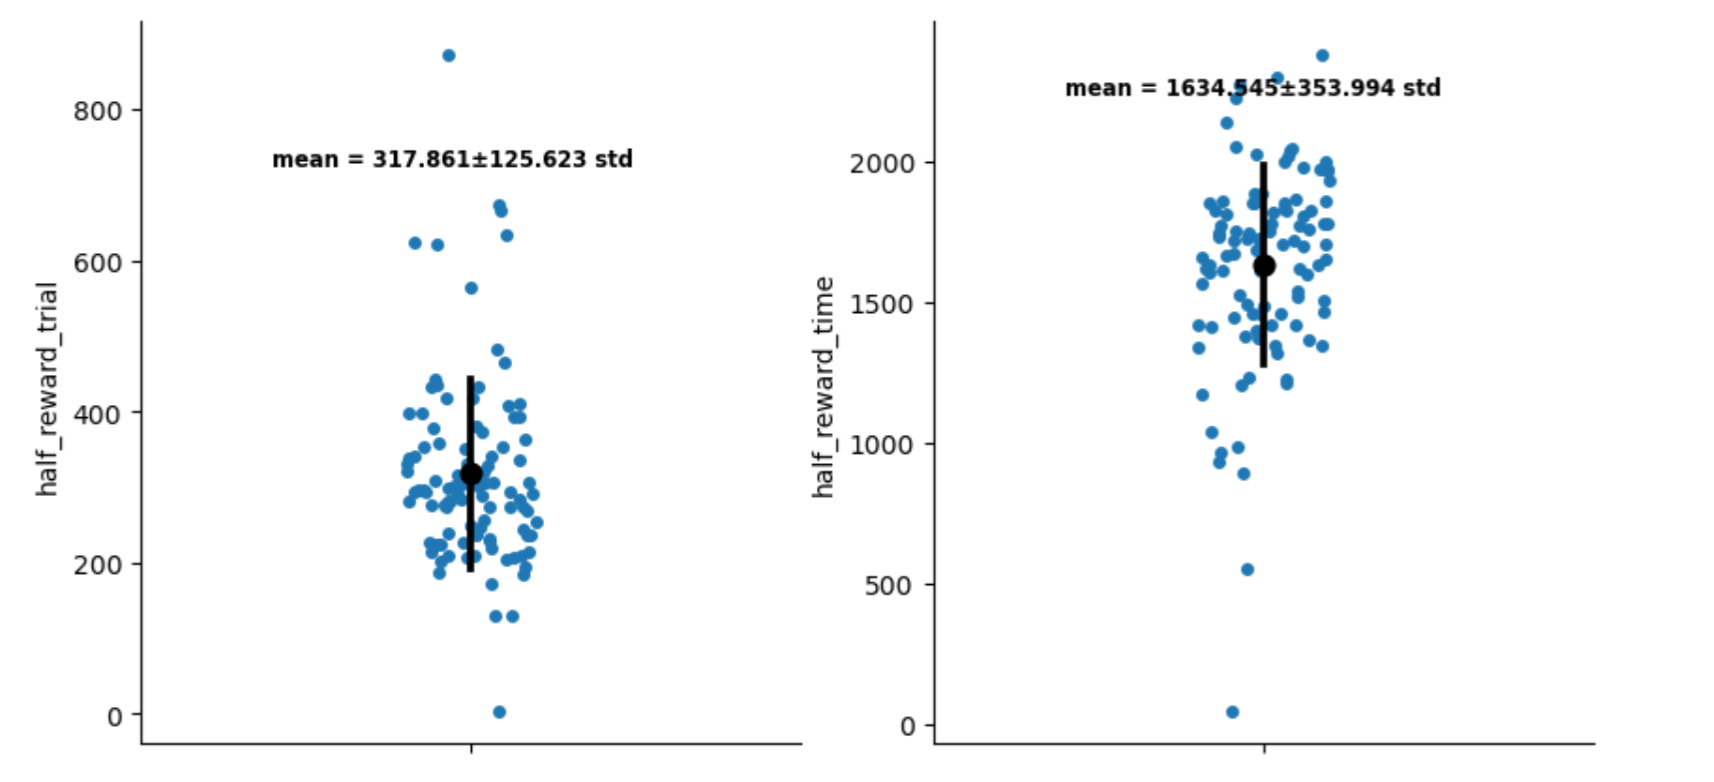
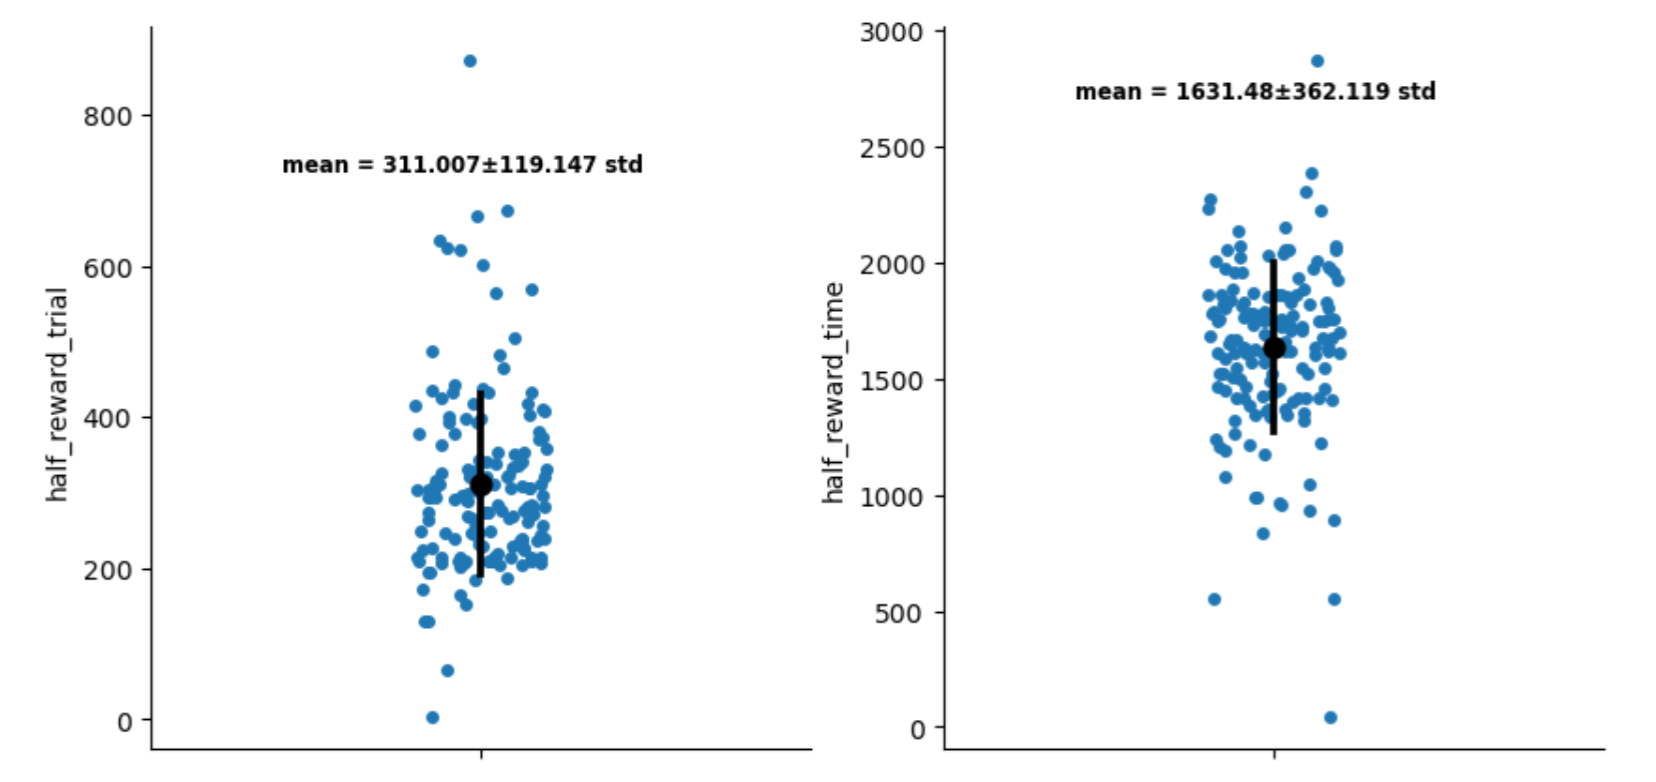
update image in option 2 to include all sessions 101->153

diff --git a/Task_parameters.md b/Task_parameters.md
@@ -37,7 +37,8 @@ or on recording days only:![hit_trial](images/Hit_trial_2.png)
 
 We can hardcode the duration of the blocks by looking at 
 the mean time necessary to reach 50% of the total reward in each session. Analysis run 
-on 101 sessions, excluding sessions with abnormalities (in either histology or recorded activity) for now.
+on 153 sessions, including sessions with abnormalities 
+in either histology or recorded activity (`cache.get_ecephys_session_table(filter_abnormalities=False)`).
 
 ![Half_reward](images/Half_reward.png)
 
